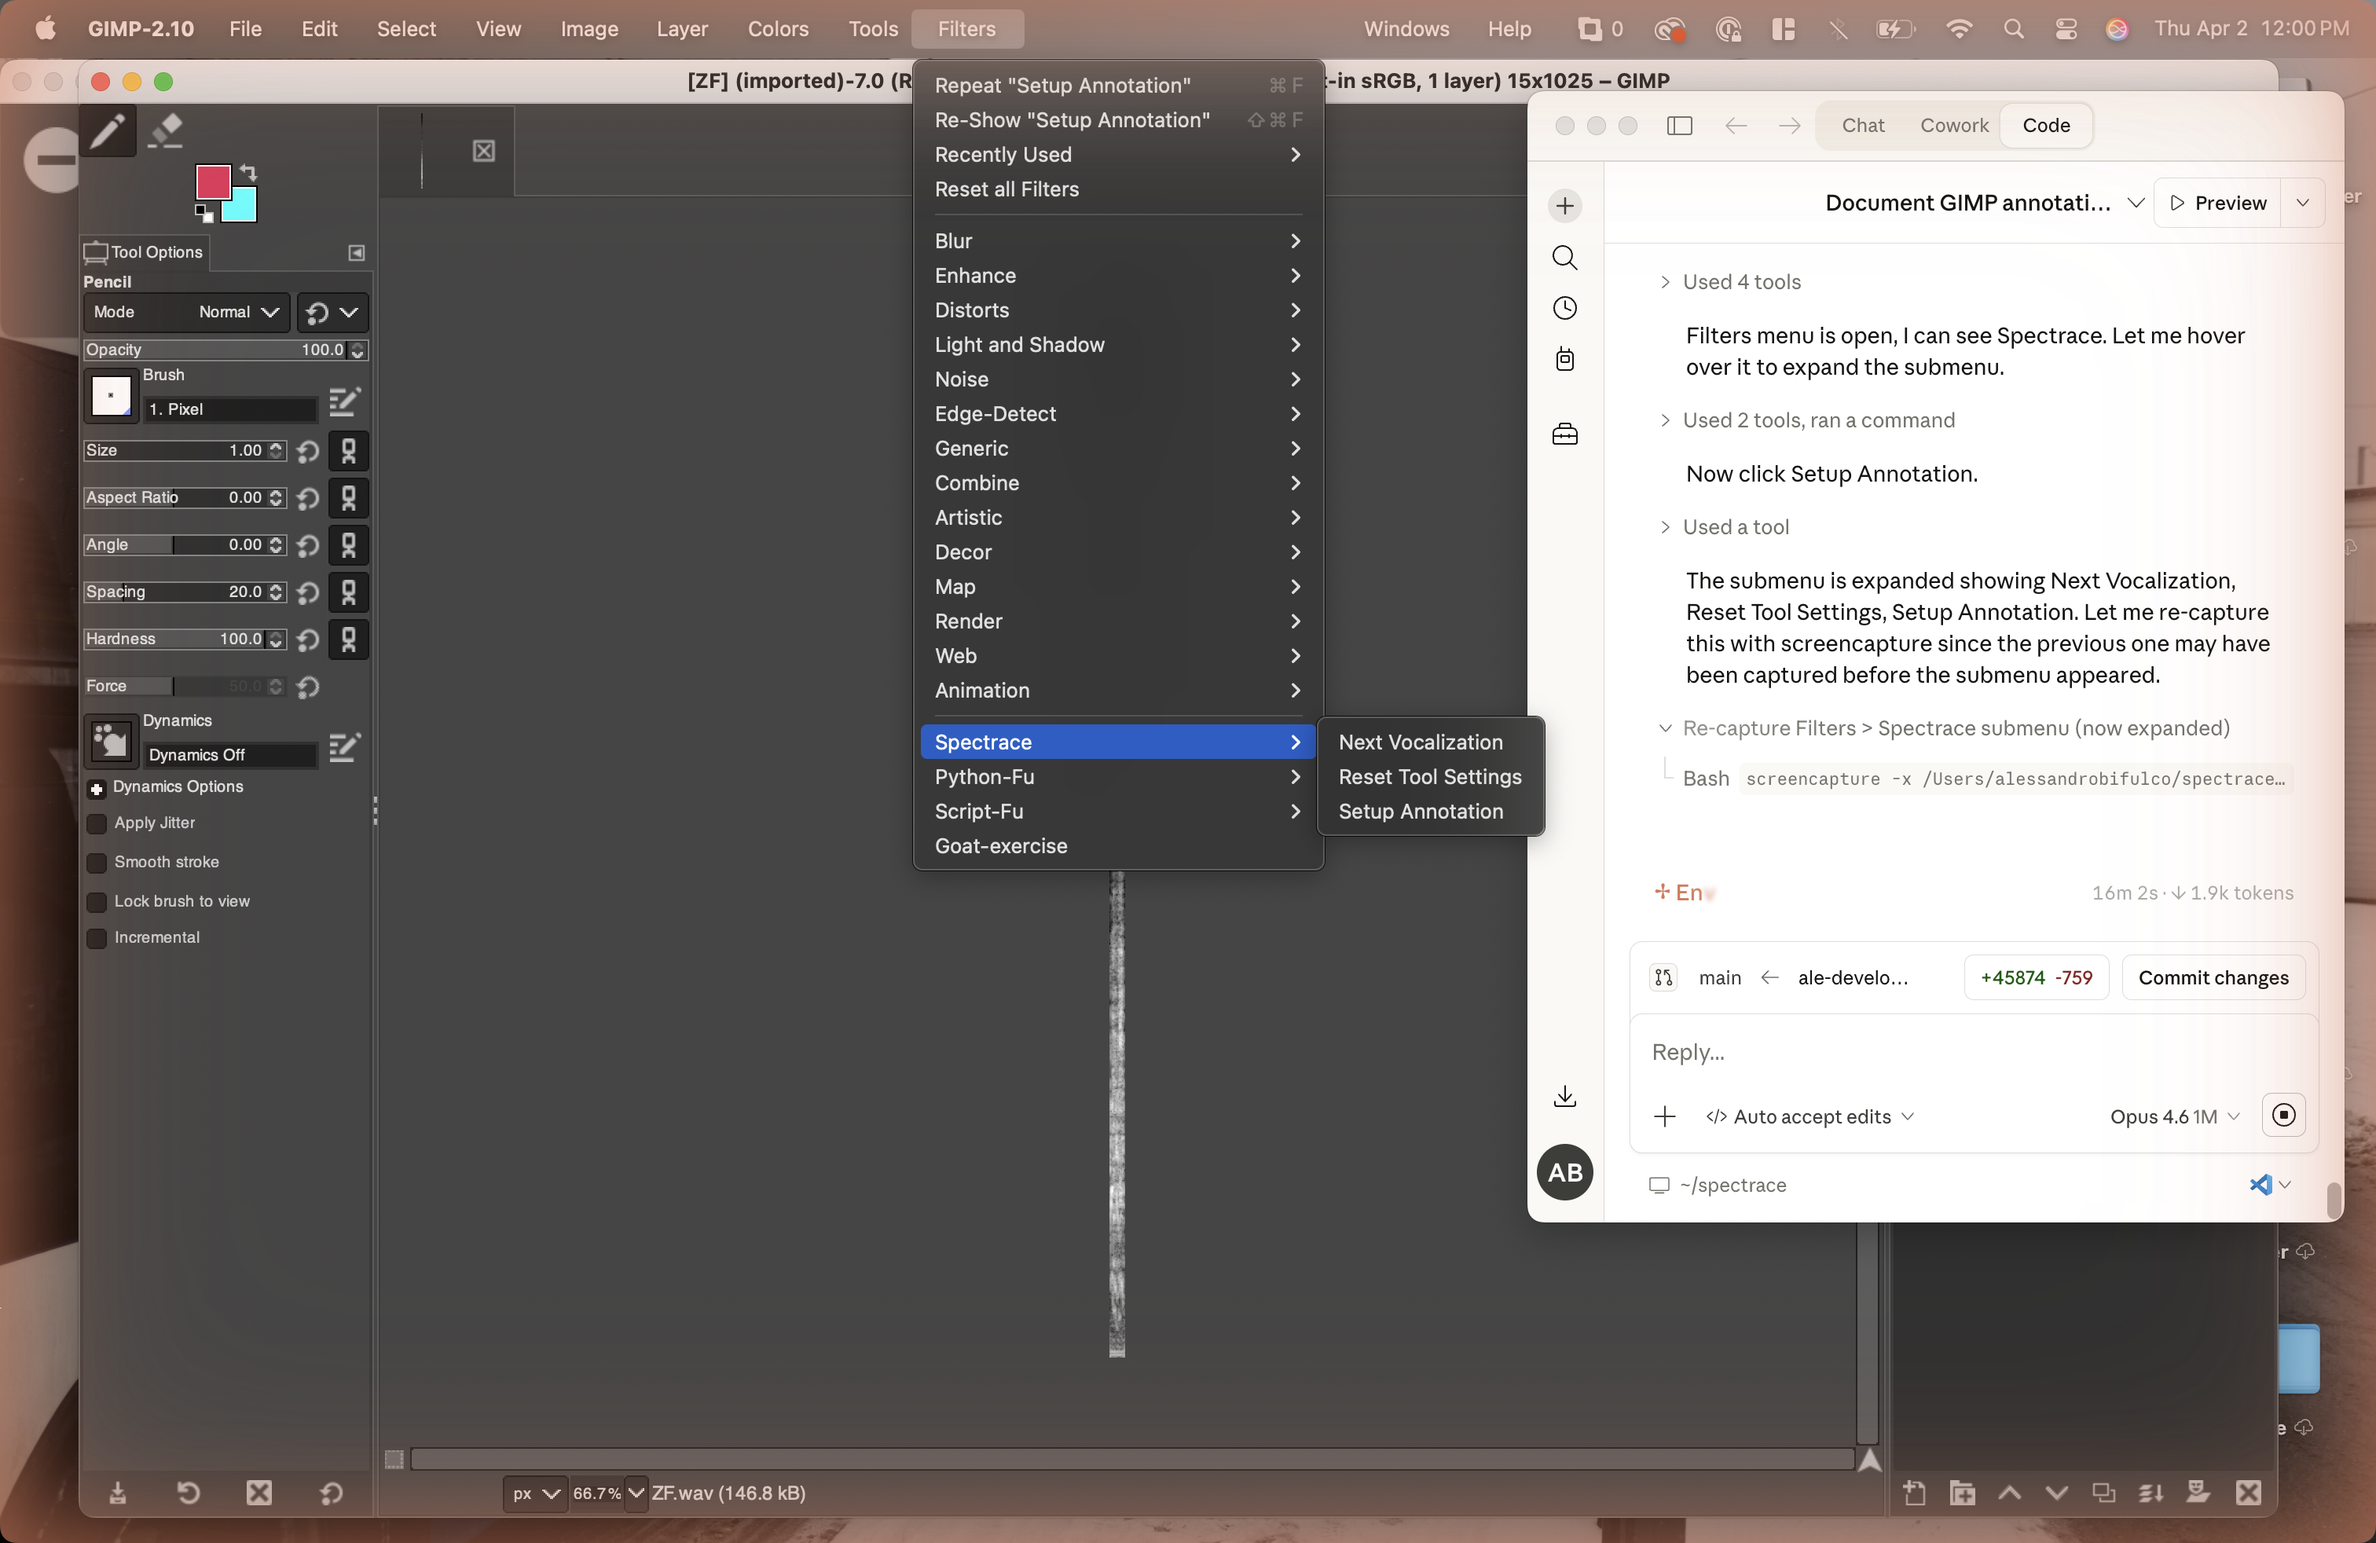
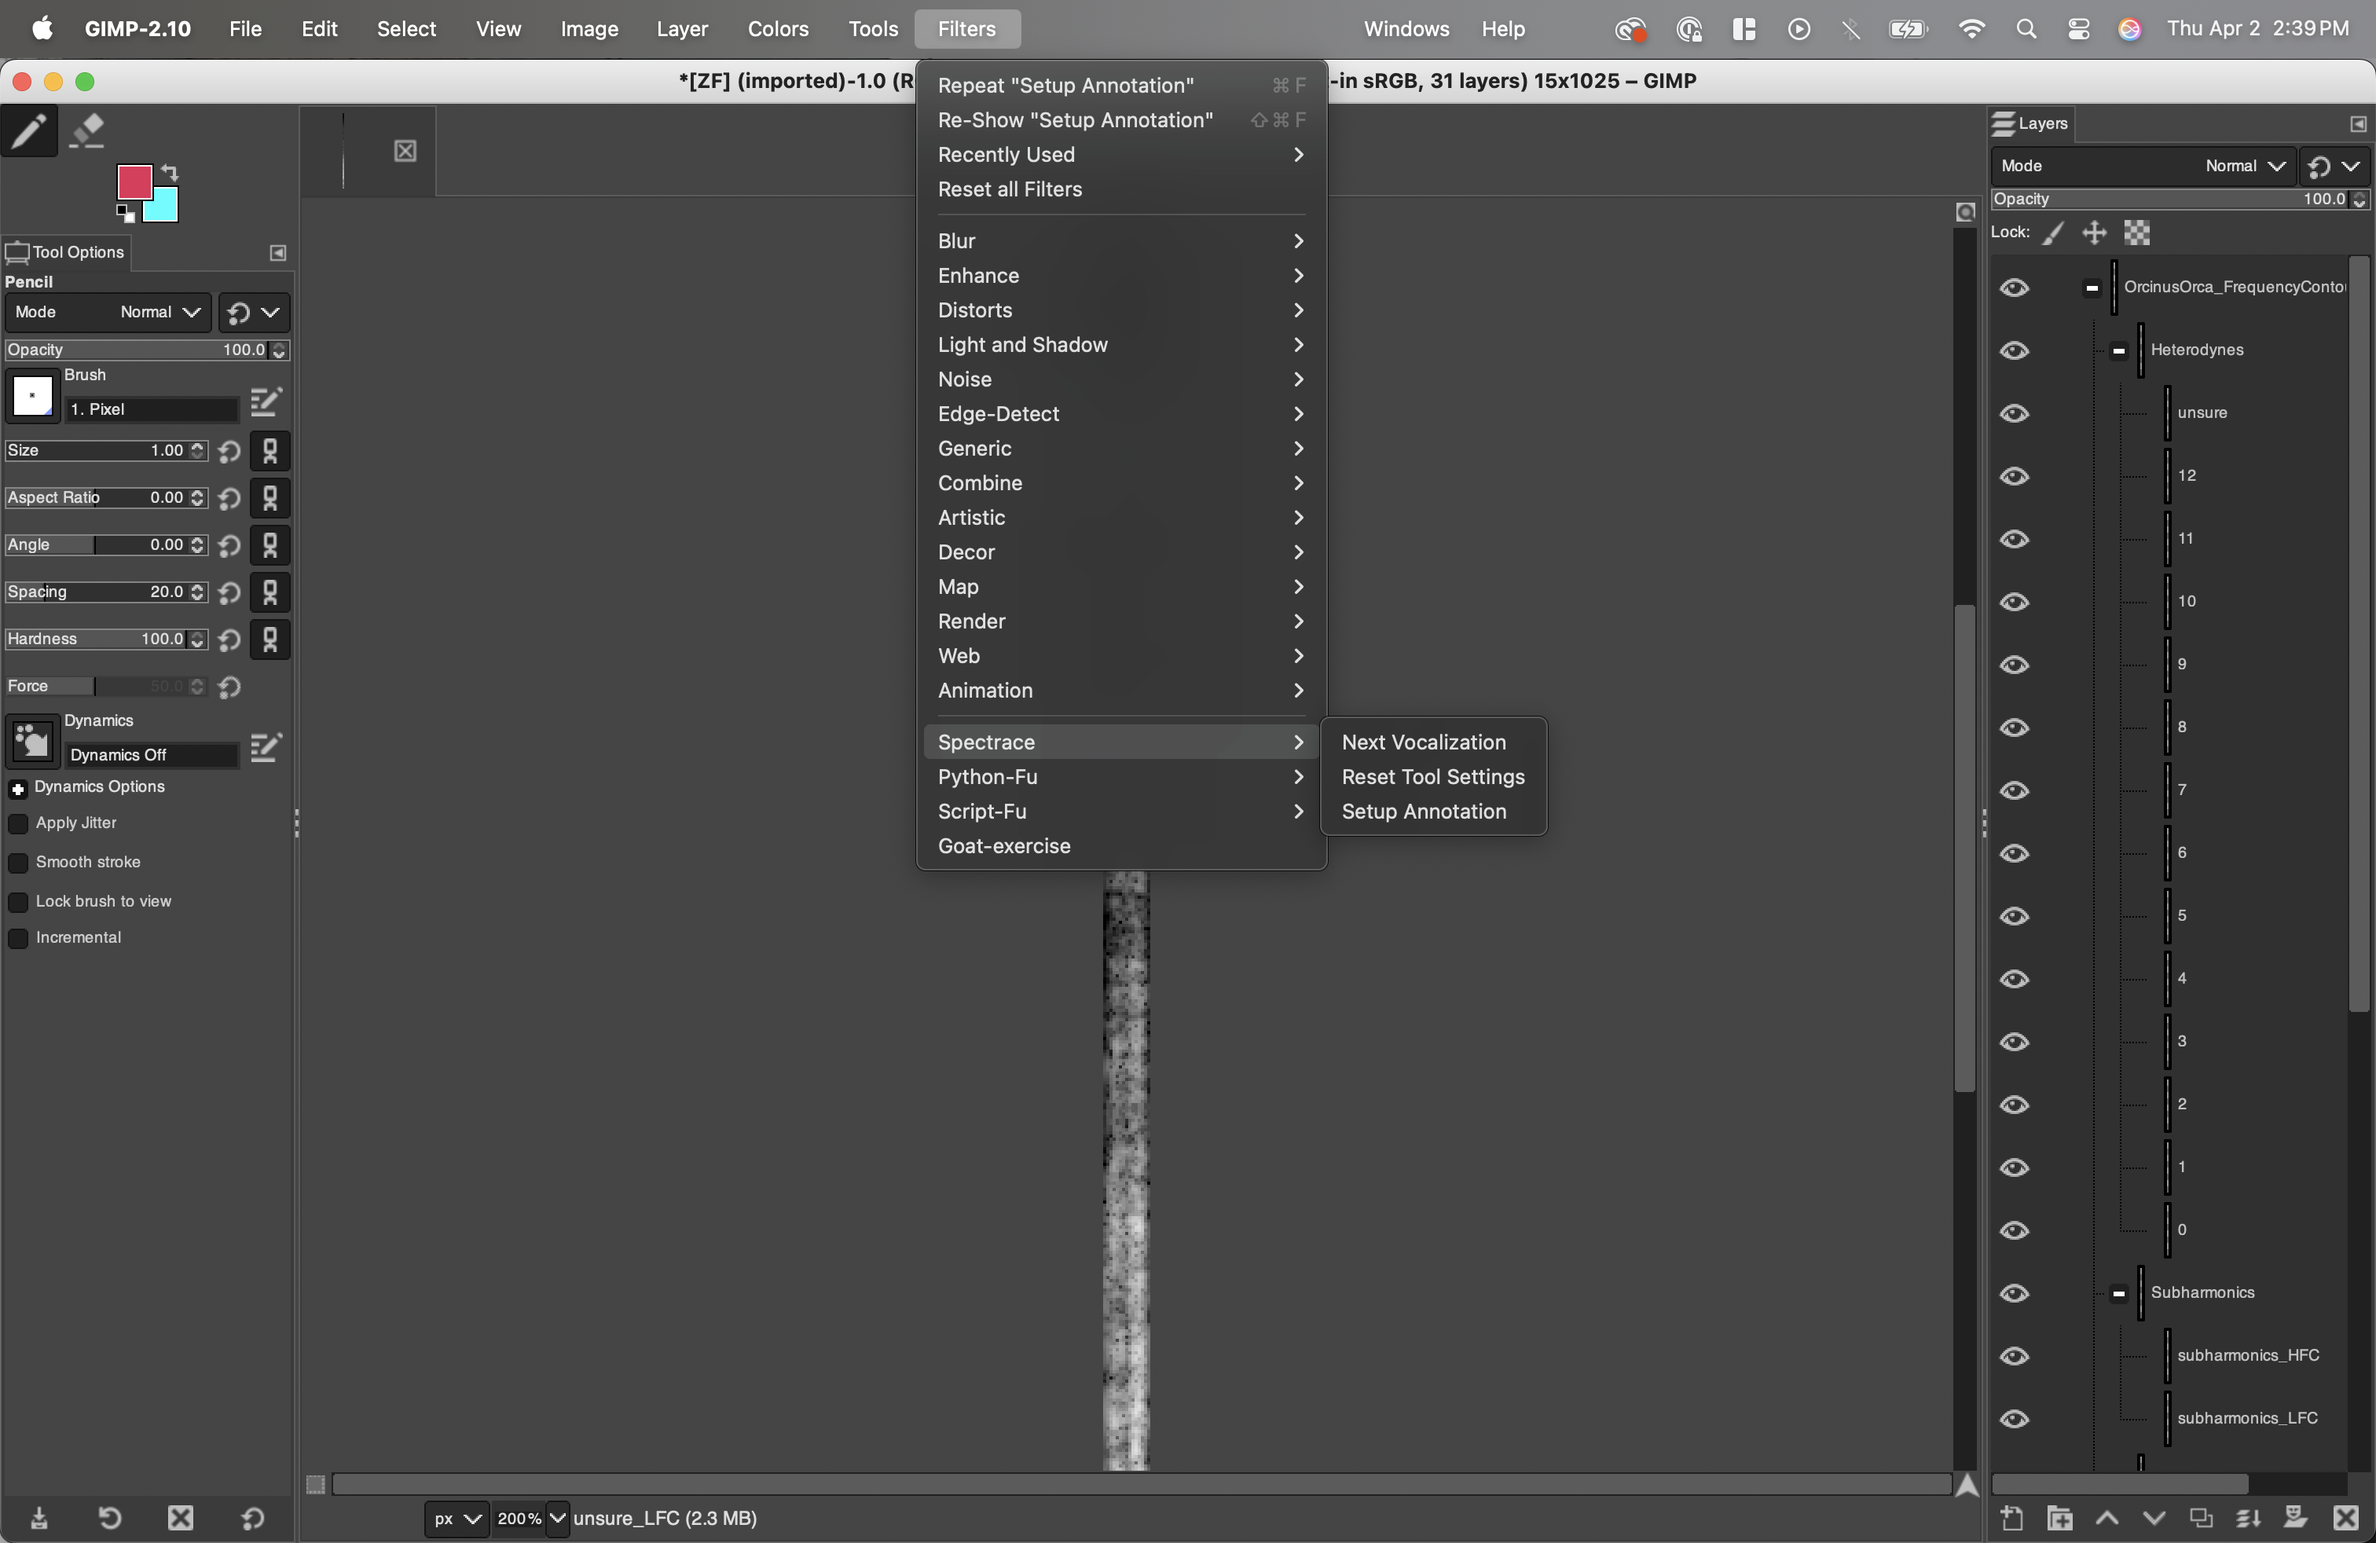
docs: replace screenshots with clean full-GIMP captures
Swap out old screenshots (which included the Claude Code sidebar) with
clean captures showing only the GIMP window. Removed unused images.

diff --git a/README.md b/README.md
@@ -113,7 +113,7 @@ The installer automatically:
    - `Reset Tool Settings`
    - `Setup Annotation`
 
-![GIMP 2.10 with Spectrace plugin — Filters > Spectrace submenu](docs/images/spectrace-menu-full.png)
+![GIMP 2.10 with Spectrace plugin — Filters > Spectrace submenu](docs/images/setup-annotation-menu.png)
 
 If the Spectrace menu does not appear, see [Troubleshooting](#troubleshooting).
 
@@ -149,10 +149,7 @@ Both workflows end the same way: draw contours on annotation layers, save.
 
 1. In GIMP, go to `File > Open`
 2. Navigate to your WAV audio file and select it
-3. The **Spectrace - Import** dialog appears:
-
-![Spectrace Import dialog — standard mode with CallMark unchecked](docs/images/import-dialog-basic.png)
-
+3. The **Spectrace - Import** dialog appears
 4. Leave the **CallMark import** checkbox unchecked
 5. Optionally browse to a custom template XCF, or leave it as `(default orca template)`
 6. Click OK
@@ -171,7 +168,7 @@ The plugin automatically:
 1. Go to `Filters > Spectrace > Setup Annotation`
 2. The plugin creates the full annotation layer hierarchy (all 26 layers with correct grouping), sets the Pencil tool to correct settings (1px, hardness 100, dynamics off), and starts a background monitor that enforces tool settings and auto-switches foreground colors when you change layers
 
-![Annotation layers panel showing all 26 layers](docs/images/annotation-layers-panel.png)
+![GIMP with annotation layers created and ready to draw](docs/images/annotation-layers-panel.png)
 
 **You are now ready to draw.**
 
@@ -182,8 +179,6 @@ The plugin automatically:
 3. **Zoom in** for precision: use `View > Zoom > 2:1 (200%)` or scroll-wheel zoom
 4. **Draw** along the frequency contour on the spectrogram — the Pencil tool is already configured
 5. **Switch to Eraser** when you need to correct — the eraser size is adjustable and remembered across tool switches
-
-![Spectrogram with annotation contour drawn](docs/images/annotation-drawn.png)
 
 **Drawing Tips:**
 - Switch layers by clicking layer names in the Layers panel — the color updates automatically
@@ -212,22 +207,21 @@ CallMark import is designed for batch annotation of vocalizations catalogued by 
 
 #### 1. Open Your WAV File and Configure CallMark
 
-1. In GIMP, go to `File > Open` and select your WAV file
+1. In GIMP, go to `File > Open` and select your WAV file:
+
+![GIMP File > Open dialog with WAV file selected](docs/images/gimp-open-wav.png)
+
 2. In the **Spectrace - Import** dialog, check **CallMark import**
-3. Additional fields appear:
+3. Click **Browse...** next to "Excel file" and select your CallMark `.xlsx` export
+4. The plugin parses the Excel file and populates the filter dropdowns:
 
-![Spectrace Import dialog with CallMark import enabled](docs/images/import-dialog-callmark.png)
+![Spectrace Import dialog with CallMark import enabled and filters visible](docs/images/import-dialog-callmark.png)
 
-4. Click **Browse...** next to "Excel file" and select your CallMark `.xlsx` export
-5. The plugin parses the Excel file and populates the filter dropdowns:
-
-![CallMark import fully configured — 331 vocalizations from ZF.wav](docs/images/callmark-configured.png)
-
-6. **Filter by Individual**: Select a specific individual ID or leave as "All"
-7. **Filter by Cluster**: Select a specific cluster name or leave as "All"
-8. The vocalization count updates live as you change filters
-9. **Start At**: Optionally set the starting vocalization number (useful for resuming work)
-10. Click OK
+5. **Filter by Individual**: Select a specific individual ID or leave as "All"
+6. **Filter by Cluster**: Select a specific cluster name or leave as "All"
+7. The vocalization count updates live as you change filters
+8. **Start At**: Optionally set the starting vocalization number (useful for resuming work)
+9. Click OK
 
 The plugin generates a spectrogram for the first vocalization and loads it into GIMP.
 
